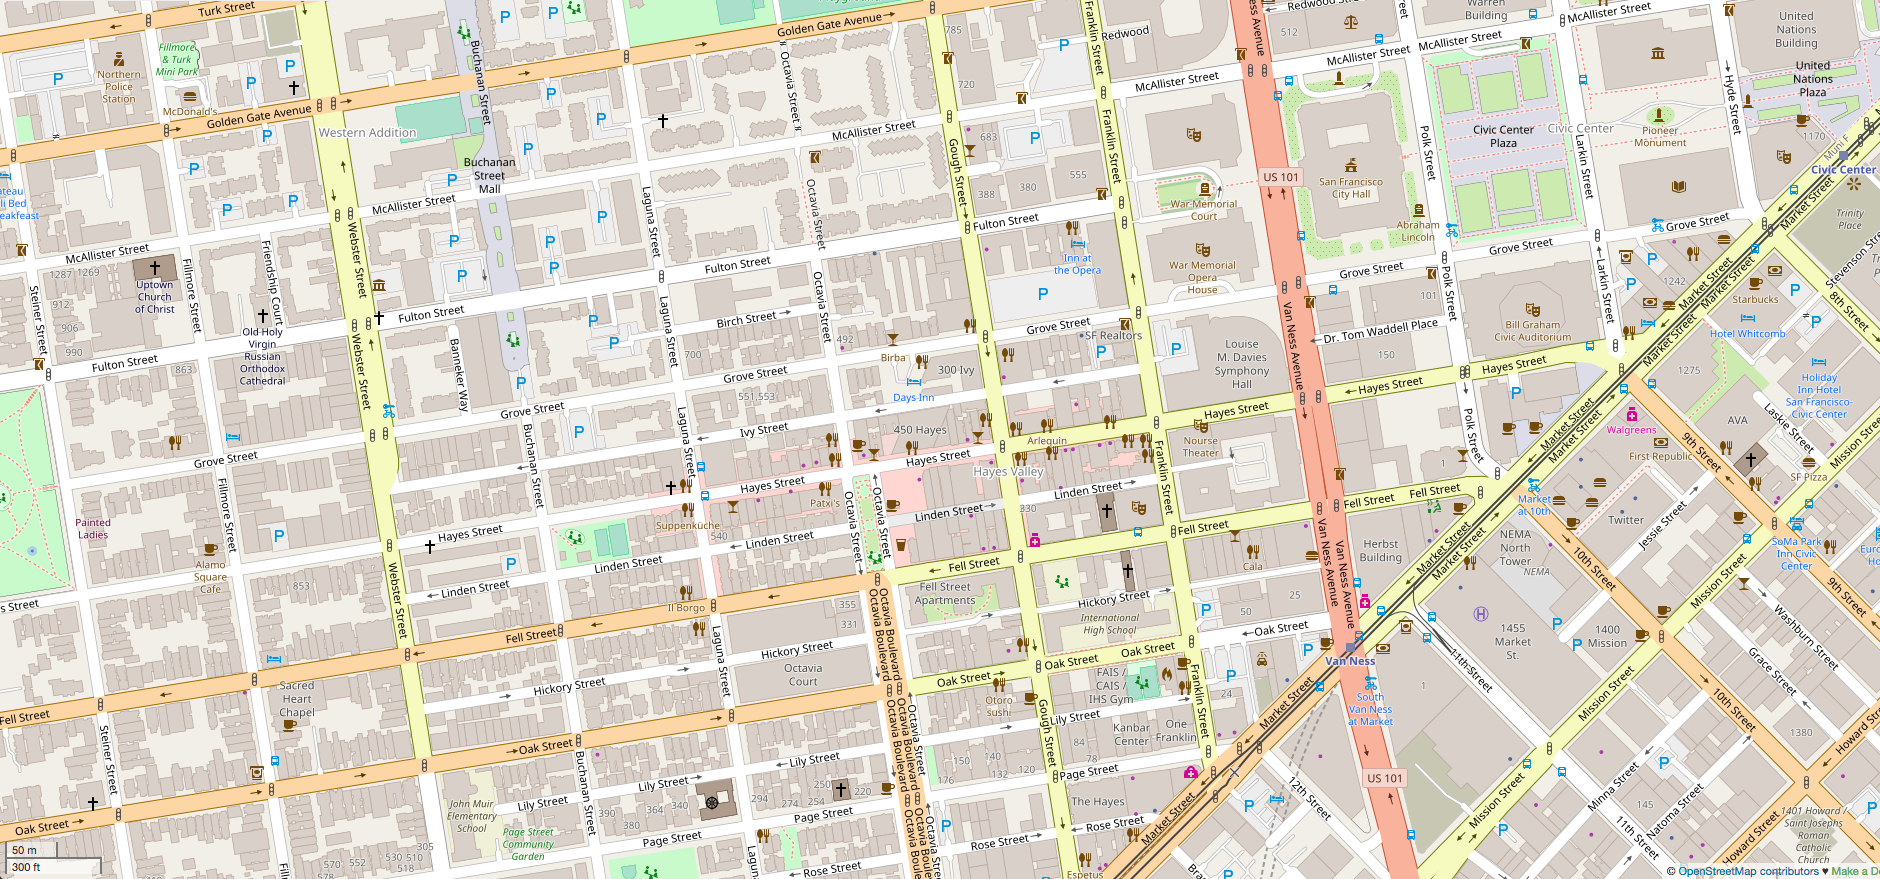
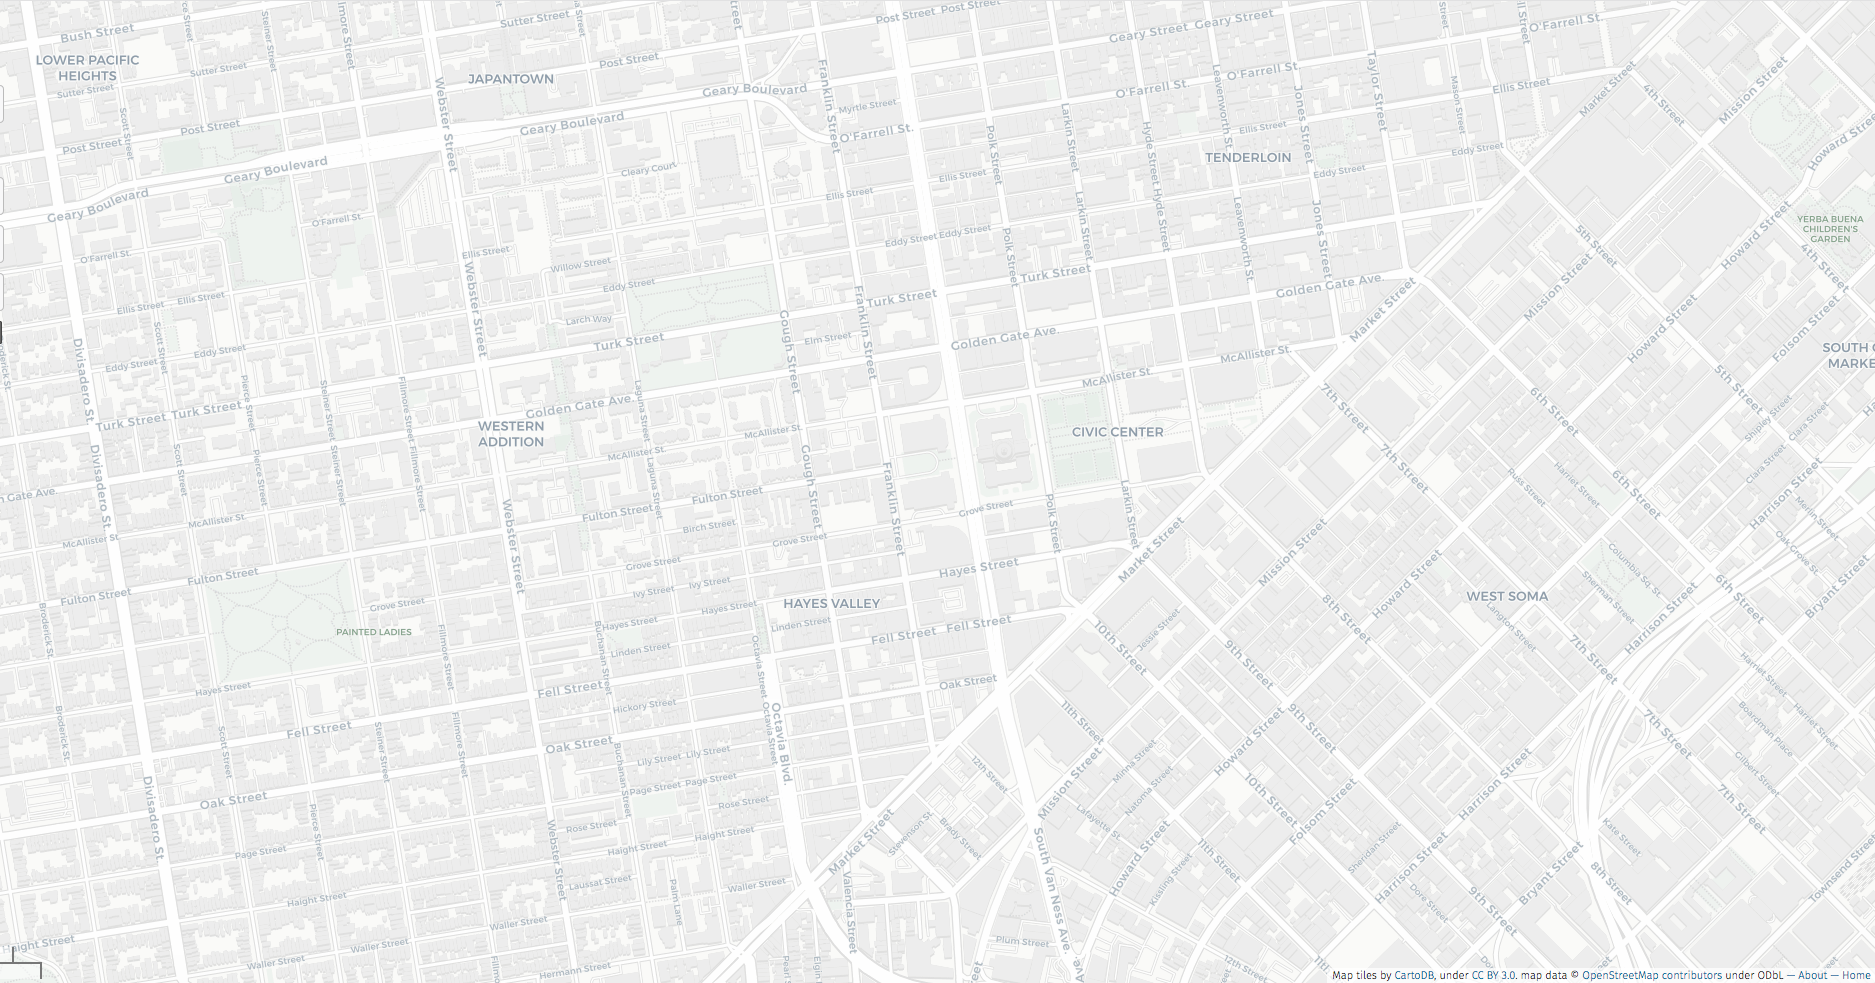
Replace map image with positron tiles
Increase opacity as the tiles are lighter

diff --git a/src/components/StartPage.vue b/src/components/StartPage.vue
@@ -66,7 +66,7 @@ export default {
   background-image: url(../assets/img/map.png);
   width: 100%;
   height: 100%;
-  opacity : 0.3;
+  opacity : 0.5;
   z-index: -1;
 }
 
